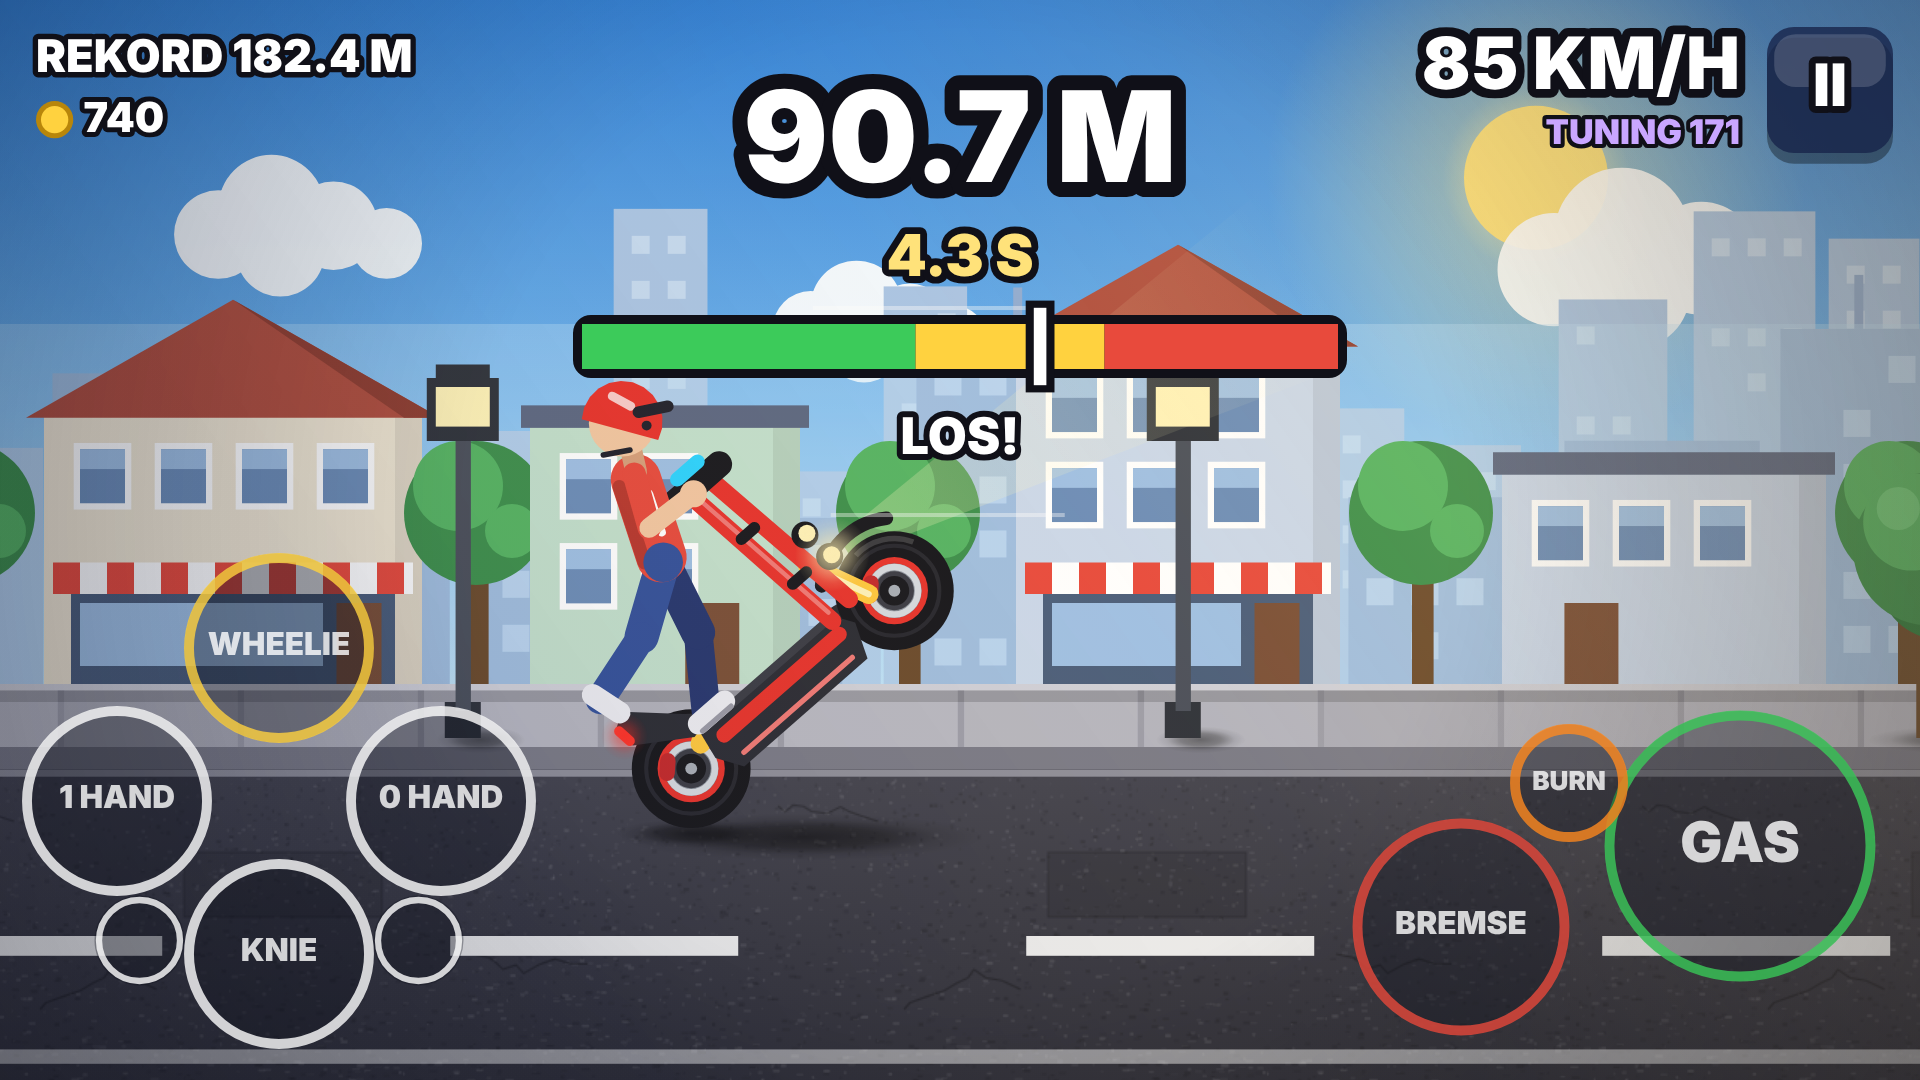
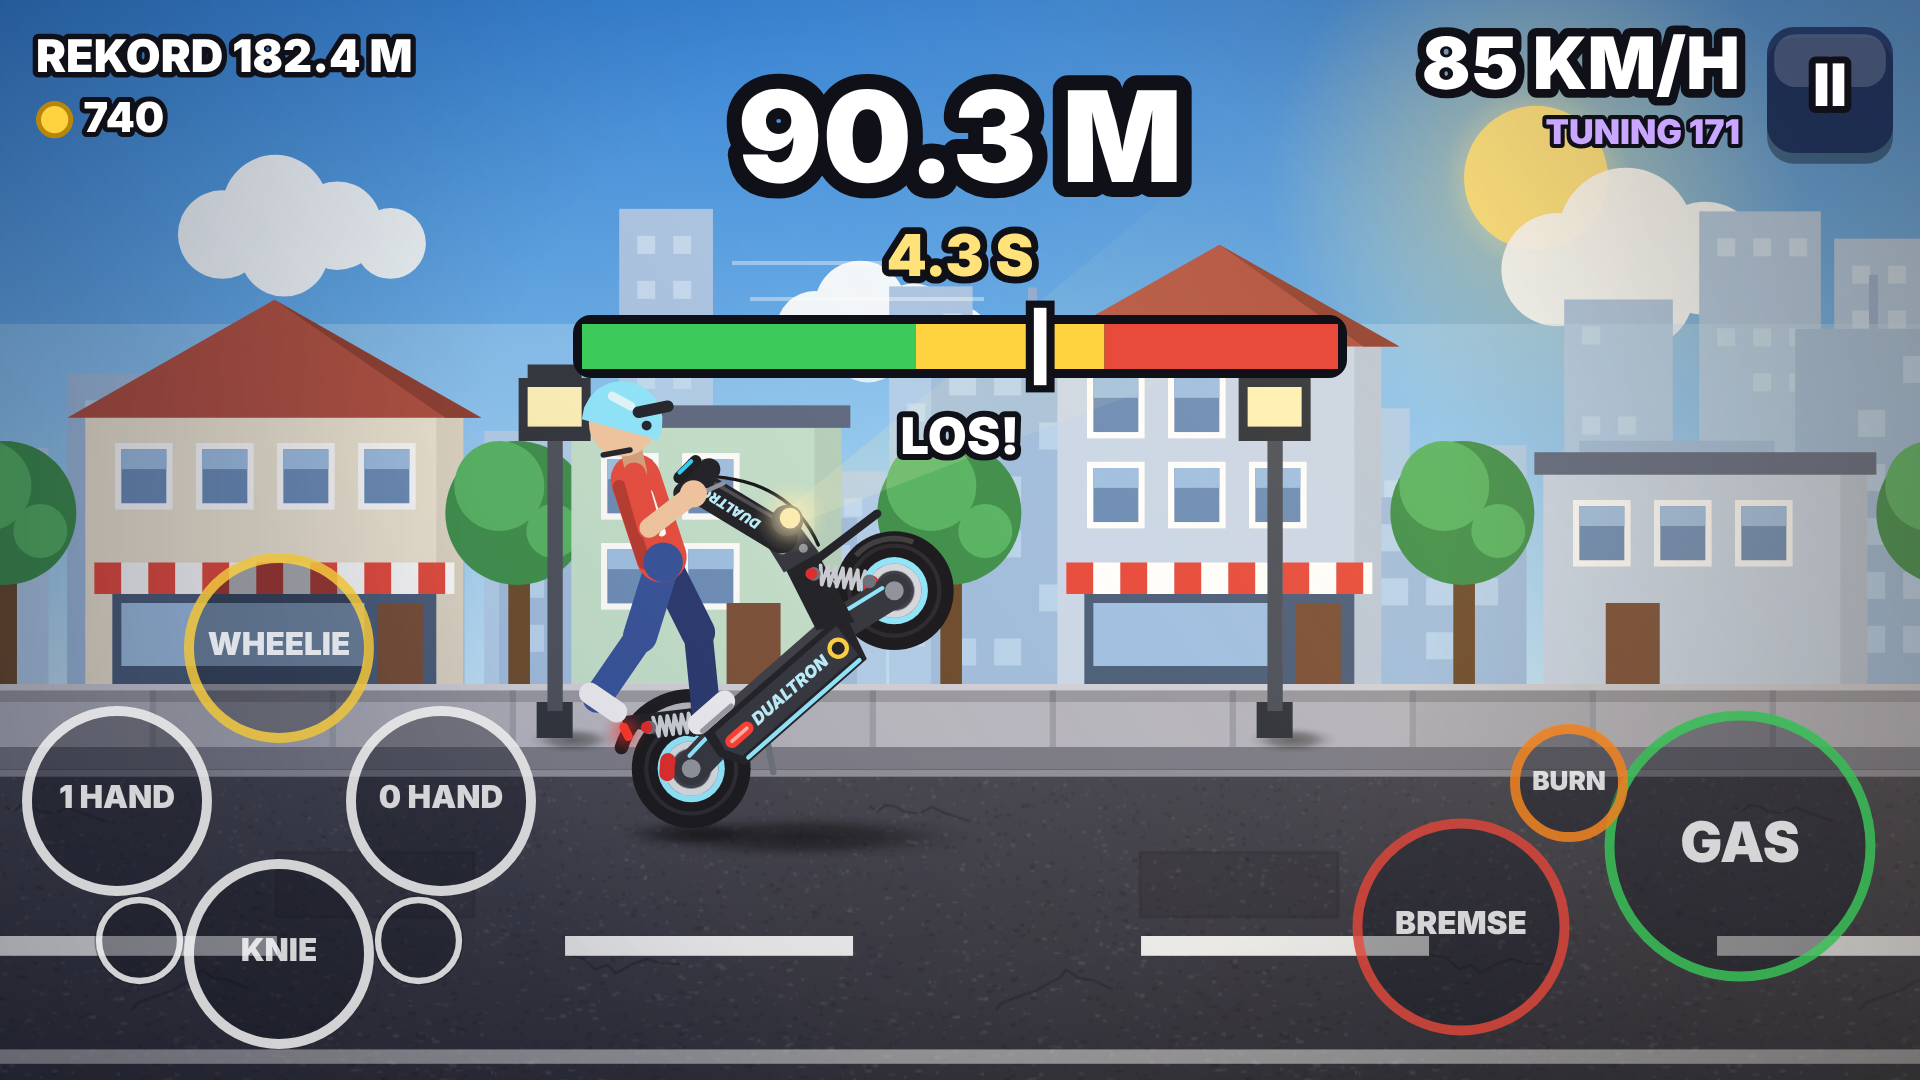
Handy-Version: Scooter nach den echten Modellen gezeichnet
Alle drei Scooter neu nach Fotos der Vorbilder:
- Ninebot Max G3: schlank, schwarzes Fahrwerk, rote Federn und Bremssättel
- Kukirin G4: kantiger Rahmen, schwarze Lenkstange mit Schriftzug,
  Federbein vorn, Fußstütze hinten, orange Details
- Dualtron X Limited: Akku-Kasten mit Schriftzug, eine dicke Lenksäule,
  runder Scheinwerfer, liegende Federbeine, gerades Schutzblech vorn
Dazu Federbeine, Bremskabel, Ständer, Schriftzüge; neue Farbe Grau und
Standard-Farben wie in echt.

Claude-Session: https://claude.ai/code/session_01Sb8gd8WMWDHa6kn2fSYihm

diff --git a/handy/www/game.js b/handy/www/game.js
@@ -33,15 +33,15 @@
   // name = so heißt der Scooter im Spiel, kmh = Höchstgeschwindigkeit ohne Tuning,
   // accel = Beschleunigung beim Anfahren (m/s², das Original hat 6.0),
   // dual = hat schon ab Werk zwei Motoren, price = Preis in Münzen,
-  // tail / lamp = dort sitzen Rücklicht und Scheinwerfer,
+  // label = Schriftzug auf dem Scooter, tail / lamp = dort sitzen Rücklicht und Scheinwerfer,
   // gain = km/h pro Motor-Stufe, cost = Tuning-Teile sind so viel mal teurer
   const SCOOTERS = [
-    { name: 'NINEBOT MAX G3', kmh: 80, accel: 6.0, dual: false, price: 0, gain: 5, cost: 1, r: 5.0, wb: 26, dy: 0, color: 0,
-      tail: [-5.4, 3.6], lamp: [23.9, 18.2] },
-    { name: 'KUKIRIN G4', kmh: 105, accel: 7.5, dual: false, price: 300, gain: 8, cost: 1.5, r: 5.6, wb: 27, dy: 0.6, color: 9,
-      tail: [-4.1, 6.2], lamp: [26.4, 9.6] },
-    { name: 'DUALTRON X LIMITED', kmh: 125, accel: 10.5, dual: true, price: 1200, gain: 12, cost: 2.5, r: 6.6, wb: 30, dy: 1.5, color: 3,
-      tail: [-3.2, 7.6], lamp: [27.5, 7.6] },
+    { name: 'NINEBOT MAX G3', kmh: 80, accel: 6.0, dual: false, price: 0, gain: 5, cost: 1, r: 5.0, wb: 26, dy: 0, color: 4,
+      label: 'MAX G3', tail: [-5.9, 2.9], lamp: [22.9, 21.2] },
+    { name: 'KUKIRIN G4', kmh: 105, accel: 7.5, dual: false, price: 300, gain: 8, cost: 1.5, r: 5.6, wb: 27, dy: 0.6, color: 12,
+      label: 'KUKIRIN G4', tail: [-3.8, 7.2], lamp: [24.9, 23.8] },
+    { name: 'DUALTRON X LIMITED', kmh: 125, accel: 10.5, dual: true, price: 1200, gain: 12, cost: 2.5, r: 6.6, wb: 30, dy: 1.5, color: 11,
+      label: 'DUALTRON', tail: [-2.9, 7.9], lamp: [26.9, 13.7] },
   ];
   const PARTS = [
     { name: 'MOTOR', info: g => '+' + g + ' KM/H' },
@@ -61,7 +61,8 @@
 
   const COLORS = [['MINT', 0x19C2A0], ['BLAU', 0x2F7DE1], ['PINK', 0xFF5FA2], ['FEUER-ROT', 0xE8322B],
     ['SCHWARZ', 0x3A3A46], ['GOLD', 0xFFC83D], ['REGENBOGEN', -1], ['NEON-GRÜN', 0x9DFF3A],
-    ['LILA', 0x9B5DE5], ['ORANGE', 0xFF8A1F], ['WEISS', 0xF2F2F6], ['EIS-BLAU', 0x8FE8FF]];
+    ['LILA', 0x9B5DE5], ['ORANGE', 0xFF8A1F], ['WEISS', 0xF2F2F6], ['EIS-BLAU', 0x8FE8FF],
+    ['GRAU', 0x7C838F]];
 
   // ------------------------------------------------------------------
   // Feste Werte
@@ -493,7 +494,7 @@
     return { S, hip, cp, sp, th, psi: th * 180 / PI * lean + A[2] + (B[2] - A[2]) * f };
   }
 
-  function wheel(p, r, rot, kind, col, motor, th, spin) {
+  function wheel(p, r, rot, kind, col, motor, th, spin, cal) {
     // kind: 0 normal, 1 Stollen (Gelände), 2 extra breit; spin = wie schnell es dreht (rad/s)
     circ(p, r, '#15151a');
     ctx.lineCap = 'butt';
@@ -536,7 +537,7 @@
     else circ(p, r * 0.2, '#17171c');
     const a = rad(135) + (th || 0);                            // Bremssattel (dreht sich nicht mit)
     const q = [p[0] + cos(a) * rd, p[1] - sin(a) * rd];
-    seg([q[0] - sin(a) * 0.7, q[1] - cos(a) * 0.7], [q[0] + sin(a) * 0.7, q[1] + cos(a) * 0.7], r * 0.26, '#c4282a');
+    seg([q[0] - sin(a) * 0.7, q[1] - cos(a) * 0.7], [q[0] + sin(a) * 0.7, q[1] + cos(a) * 0.7], r * 0.26, cal || '#c4282a');
     ctx.strokeStyle = 'rgba(255,255,255,0.16)'; ctx.lineWidth = 0.6; ctx.lineCap = 'butt';     // Glanz auf dem Reifen
     ctx.beginPath(); ctx.arc(p[0], p[1], r - 0.8, -2.4, -1.2); ctx.stroke();
   }
@@ -548,77 +549,173 @@
     ctx.beginPath(); ctx.arc(p[0], p[1], r + 1.5, -(rad(a1) + th), -(rad(a0) + th)); ctx.stroke();
   }
 
-  function drawScooter(model, S, th, col, rotF, rotR, dual, spinF, spinR) {
-    const c = hex(col), cd = shade(col, -0.3), cl = shade(col, 0.35);
-    const D = '#17171c', D2 = '#2a2b33', M = '#a8aeb6', r = model.r, wb = model.wb;
-    if (model === SCOOTERS[0]) {
-      // --- Ninebot Max G3: schlank, Pendler-Scooter ---
-      wheel(S(0, 0), r, rotR, 0, c, true, th, spinR);
-      wheel(S(wb, 0), r, rotF, 0, c, dual, th, spinF);
-      fender(S, th, 0, r, 35, 150, D2);
-      circ(S(-5.4, 3.6), 0.9, '#ff3b30');                       // Rücklicht
-      fender(S, th, wb, r, 40, 140, D2);
-      seg(S(26, 0), S(24.3, 5.5), 2.2, D);                      // Gabel
-      poly([S(1, 0.9), S(21, 0.9), S(21.8, -0.6), S(20.6, -2.4), S(1.6, -2.4), S(0.6, -0.8)], c);   // Trittbrett
-      poly([S(1.4, -1.2), S(21, -1.2), S(20.6, -2.4), S(1.6, -2.4)], cd);
-      seg(S(3, 0.9), S(19, 0.9), 0.9, D2);                      // Gummi-Matte
-      seg(S(19.5, -0.8), S(24.3, 5.0), 3.0, c);                 // Hals
-      seg(S(24.3, 5.0), S(21.3, 22.5), 2.4, D2);                // Lenkstange
-      seg(S(24.7, 6.0), S(21.9, 22.0), 0.5, 'rgba(255,255,255,0.22)');
-      seg(S(24.0, 6.6), S(23.1, 12), 2.5, c);
-      seg(S(18.6, 22.8), S(23.8, 22.8), 2.4, D);                // Lenker
-      seg(S(20.6, 24.2), S(22.6, 24.2), 1.2, '#2bd4ff');        // Display
-      seg(S(23.5, 17.0), S(23.9, 19.3), 2.2, '#fff3b8');        // Licht
-    } else if (model === SCOOTERS[1]) {
-      // --- Kukirin G4: kräftig, Gelände-Reifen, Federung ---
-      seg(S(0, 0), S(5, 0.2), 2.6, D2);                         // Schwinge hinten
-      seg(S(wb, 0), S(22.4, 2.6), 2.6, D2);                     // Schwinge vorn
-      wheel(S(0, 0), r, rotR, 1, c, true, th, spinR);
-      wheel(S(wb, 0), r, rotF, 1, c, dual, th, spinF);
-      fender(S, th, 0, r, 50, 135, D);
-      fender(S, th, wb, r, 45, 140, D);
-      seg(S(25.4, 1.6), S(23.4, 7.6), 1.9, '#e8322b');          // Feder vorn
-      seg(S(25.4, 1.6), S(23.4, 7.6), 0.6, '#ffb0a8');
-      poly([S(-5.2, 6.2), S(-3.6, 7.4), S(3.4, 1.6), S(0.6, 1.4)], D2);       // Fußstütze hinten
-      seg(S(-4.6, 6.6), S(-3.6, 5.8), 1.0, '#ff3b30');
-      poly([S(1, 1.5), S(21.4, 1.5), S(22.6, -0.6), S(21, -3.3), S(2.4, -3.3), S(0.6, -0.8)], c);   // Trittbrett
-      poly([S(1.8, -1.9), S(21.8, -1.9), S(21, -3.3), S(2.4, -3.3)], cd);
-      seg(S(4.6, -0.3), S(18.6, -0.3), 1.3, D);                 // Seitenstreifen
-      seg(S(3, 1.5), S(19.6, 1.5), 0.9, D2);
-      seg(S(20.4, 0.2), S(24.6, 6.5), 3.8, D2);                 // Klapp-Gelenk
-      seg(S(24.6, 6.5), S(21.4, 22.6), 3.0, c);                 // Lenkstange
-      seg(S(24.9, 6.5), S(21.7, 22.6), 0.7, cl);
-      circ(S(26.0, 9.6), 1.6, D);                               // Scheinwerfer
-      circ(S(26.3, 9.6), 1.0, '#fff3b8');
-      seg(S(18.2, 23.0), S(24.0, 23.0), 2.6, D);                // Lenker
-      seg(S(20.2, 24.6), S(22.8, 24.6), 1.5, '#2bd4ff');
-    } else {
-      // --- Dualtron X Limited: riesig, doppelte Lenkstange, fette Reifen ---
-      seg(S(0, 0), S(6, 1.2), 3.6, D2);                         // Schwingen
-      seg(S(wb, 0), S(23.4, 1.4), 3.6, D2);
-      wheel(S(0, 0), r, rotR, 2, c, true, th, spinR);
-      wheel(S(wb, 0), r, rotF, 2, c, dual, th, spinF);
-      fender(S, th, wb, r, 55, 135, D);
-      seg(S(27.6, 1.6), S(24.6, 8.4), 2.2, '#ffc83d');          // Federbein vorn
-      seg(S(27.6, 1.6), S(24.6, 8.4), 0.7, '#fff3b8');
-      seg(S(2.6, 1.4), S(5.4, 3.2), 2.2, '#ffc83d');            // Federbein hinten
-      poly([S(-3.4, 8.8), S(-1.6, 9.8), S(5.6, 3.0), S(2.6, 2.4), S(-3.2, 6.2)], D2);   // Fußstütze hinten
-      seg(S(-3.3, 8.4), S(-3.1, 6.8), 1.1, '#ff3b30');
-      poly([S(3.4, 2.4), S(23, 2.4), S(24.4, 0.2), S(22.8, -3.7), S(4.6, -3.7), S(2.8, -0.9)], D2);   // Akku-Kasten
-      seg(S(5.2, 0.4), S(22.2, 0.4), 1.7, c);                   // Farb-Streifen
-      seg(S(5.6, -2.5), S(21.6, -2.5), 0.6, cl);                // LED-Leiste
-      seg(S(4.4, 2.4), S(21.6, 2.4), 0.9, '#3a3b44');
-      seg(S(22.6, 2.0), S(19.9, 23.0), 2.0, c);                 // doppelte Lenkstange
-      seg(S(22.9, 3.0), S(20.3, 22.4), 0.5, cl);
-      seg(S(25.6, 2.6), S(22.7, 23.0), 2.0, c);
-      seg(S(24.0, 8.0), S(22.0, 8.0), 1.3, D);
-      seg(S(22.9, 15.5), S(21.0, 15.5), 1.3, D);
-      circ(S(27.1, 7.6), 1.5, D); circ(S(27.4, 7.6), 0.95, '#fff3b8');      // zwei Scheinwerfer
-      circ(S(26.6, 11.2), 1.5, D); circ(S(26.9, 11.2), 0.95, '#fff3b8');
-      seg(S(17.8, 23.4), S(24.6, 23.4), 2.9, D);                // Lenker
-      seg(S(20.0, 25.2), S(23.0, 25.2), 1.6, '#2bd4ff');
+  function shock(a, b, w, col) {
+    // Federbein: Dämpfer in der Mitte, Feder im Zickzack außen herum
+    const dx = b[0] - a[0], dy = b[1] - a[1], L = Math.hypot(dx, dy) || 1;
+    const nx = -dy / L * w / 2, ny = dx / L * w / 2, n = max(6, Math.round(L / 0.5));
+    seg(a, b, w * 0.42, '#23242c');
+    ctx.strokeStyle = col; ctx.lineWidth = 0.42; ctx.lineCap = 'round'; ctx.lineJoin = 'round';
+    ctx.beginPath();
+    for (let i = 0; i <= n; i++) {
+      const t = 0.1 + 0.8 * i / n, sg = i & 1 ? 1 : -1;
+      const x = a[0] + dx * t + nx * sg, y = a[1] + dy * t + ny * sg;
+      if (i) ctx.lineTo(x, y); else ctx.moveTo(x, y);
     }
-    void M;
+    ctx.stroke();
+    circ(a, w * 0.36, '#6a6f7a'); circ(b, w * 0.36, '#6a6f7a');
+  }
+
+  function lettering(S, th, x, y, str, size, col, along) {
+    // Schrift auf dem Scooter; along = Richtung in Grad (0 = nach vorn, 90 = nach oben)
+    const q = S(x, y);
+    ctx.save();
+    ctx.translate(q[0], q[1]);
+    ctx.rotate(-(th + rad(along || 0)));
+    ctx.font = 'italic 900 ' + size + 'px' + FONT;
+    ctx.textAlign = 'left'; ctx.textBaseline = 'middle';
+    ctx.fillStyle = col;
+    ctx.fillText(str, 0, 0);
+    ctx.restore();
+  }
+
+  function checker(S, x, y, col) {
+    // kleines Karo-Muster (Aufkleber)
+    const q = 0.62;
+    for (const [i, k] of [[0, 0], [1, 1], [2, 0], [3, 1]])
+      poly([S(x + i * q, y + k * q), S(x + i * q + q, y + k * q), S(x + i * q + q, y + k * q - q), S(x + i * q, y + k * q - q)], col);
+  }
+
+  function cable(S, a, c, b) {
+    // Bremskabel: dünner Bogen vom Lenker nach unten
+    const p0 = S(a[0], a[1]), p1 = S(c[0], c[1]), p2 = S(b[0], b[1]);
+    ctx.strokeStyle = '#101014'; ctx.lineWidth = 0.38; ctx.lineCap = 'round';
+    ctx.beginPath(); ctx.moveTo(p0[0], p0[1]); ctx.quadraticCurveTo(p1[0], p1[1], p2[0], p2[1]); ctx.stroke();
+  }
+
+  function drawScooter(model, S, th, col, rotF, rotR, dual, spinF, spinR) {
+    // Die drei Scooter sind nach Fotos der echten Modelle gezeichnet (Seitenansicht).
+    // Koordinaten: Hinterachse = 0,0; x nach vorn, y nach oben. Griff bei 20.3 / 22.8.
+    const c = hex(col), cd = shade(col, -0.3), cl = shade(col, 0.4);
+    const D = '#17171c', D2 = '#2a2b33', ST = '#8d939d', RED = '#e0282a', CY = '#2bd4ff';
+    const r = model.r, wb = model.wb;
+    const hi = 'rgba(255,255,255,0.2)';
+    if (model === SCOOTERS[0]) {
+      // --- Ninebot Max G3: schlank, schwarzes Fahrwerk, rote Federn und Bremssättel ---
+      wheel(S(0, 0), r, rotR, 0, c, true, th, spinR, RED);
+      wheel(S(wb, 0), r, rotF, 0, c, dual, th, spinF, RED);
+      fender(S, th, 0, r, 22, 158, D);                          // langes Schutzblech hinten
+      seg(S(-5.7, 3.4), S(-6.1, 2.2), 1.1, D2);
+      circ(S(-5.9, 2.9), 0.75, '#ff3b30');                      // Rücklicht
+      fender(S, th, wb, r, 42, 152, D);
+      seg(S(0, 0), S(5.6, -0.9), 2.0, D2);                      // Schwinge hinten
+      circ(S(0, 0), 0.8, ST);
+      shock(S(1.3, 2.5), S(5.0, 0.5), 1.6, RED);                // Federbein hinten
+      seg(S(wb, 0), S(24.8, 4.4), 2.1, D);                      // Gabel
+      circ(S(wb, 0), 0.8, ST);
+      shock(S(25.0, 3.4), S(23.8, 7.2), 1.6, RED);              // Hydraulik-Federung vorn
+      seg(S(10.6, -2.2), S(9.2, -4.7), 0.55, '#6a6f7a');        // Ständer
+      poly([S(4.4, 0.9), S(18.4, 0.9), S(20.4, -0.5), S(19.6, -2.3), S(5.0, -2.3), S(3.8, -0.9)], c);    // Trittbrett
+      poly([S(4.3, -1.35), S(20.1, -1.35), S(19.6, -2.3), S(5.0, -2.3)], cd);
+      seg(S(5.2, 0.95), S(18.0, 0.95), 0.8, D2);                // Gummi-Matte
+      seg(S(4.9, -0.2), S(6.1, -0.2), 0.7, '#ff8a1f');          // Reflektoren
+      seg(S(17.6, -0.2), S(18.8, -0.2), 0.7, '#ff8a1f');
+      lettering(S, th, 8.2, -0.2, model.label, 1.45, cl, 0);
+      seg(S(18.6, -0.7), S(23.0, 6.2), 3.0, c);                 // Hals
+      seg(S(19.6, 0.0), S(23.3, 5.7), 0.45, hi);
+      cable(S, [22.4, 22.6], [27.6, 15], [24.7, 6.4]);
+      seg(S(23.2, 8.0), S(20.9, 22.2), 2.1, c);                 // Lenkstange
+      seg(S(23.7, 8.8), S(21.5, 21.8), 0.42, hi);
+      circ(S(23.3, 7.0), 1.75, D2);                             // Klapp-Gelenk
+      circ(S(23.3, 7.0), 0.6, RED);
+      seg(S(22.4, 20.3), S(22.7, 21.9), 1.6, '#fff3b8');        // Licht
+      seg(S(19.8, 23.7), S(22.8, 24.0), 1.6, D);                // Display im Lenker
+      seg(S(20.3, 24.5), S(22.3, 24.7), 0.5, CY);
+      seg(S(20.9, 22.3), S(23.3, 21.3), 0.45, ST);              // Bremshebel
+      circ(S(20.3, 22.8), 1.3, D);
+    } else if (model === SCOOTERS[1]) {
+      // --- Kukirin G4: kantiger Rahmen, breite Reifen, schwarze Lenkstange, orange Details ---
+      const O = '#ff7a1a', K = '#1c1d24';
+      wheel(S(0, 0), r, rotR, 1, c, true, th, spinR, O);
+      wheel(S(wb, 0), r, rotF, 1, c, dual, th, spinF, O);
+      fender(S, th, 0, r, 38, 142, D);
+      fender(S, th, wb, r, 52, 128, D);
+      seg(S(0, 0), S(5.8, 0.2), 2.9, c);                        // Schwinge hinten
+      seg(S(0.6, 0.6), S(5.4, 0.8), 0.4, cl);
+      circ(S(0, 0), 0.95, ST);
+      shock(S(0.9, 3.0), S(5.0, 1.2), 1.7, '#9aa0aa');
+      seg(S(2.6, 1.6), S(0.6, 5.2), 1.2, D2);                   // Fußstütze hinten
+      poly([S(-3.7, 7.2), S(-3.1, 8.1), S(4.5, 4.2), S(3.9, 3.3)], D);
+      seg(S(-3.5, 7.6), S(-3.95, 6.8), 0.9, '#ff3b30');
+      seg(S(24.9, 8.6), S(25.5, 3.0), 2.5, K);                  // Lenksäule nach unten
+      seg(S(24.2, 2.7), S(wb, 0), 2.9, c);                      // Schwinge vorn
+      seg(S(24.4, 3.3), S(26.6, 0.7), 0.4, cl);
+      circ(S(wb, 0), 0.95, ST);
+      shock(S(26.1, 7.6), S(26.9, 1.5), 1.9, '#9aa0aa');        // Federbein vorn
+      seg(S(11.6, -1.7), S(13.0, -5.3), 0.6, '#6a6f7a');        // Ständer
+      poly([S(3.6, 1.5), S(20.2, 1.5), S(21.6, 0.2), S(20.6, -1.7), S(4.4, -1.7), S(3.2, -0.2)], c);    // Trittbrett
+      poly([S(3.8, -0.9), S(21.0, -0.9), S(20.6, -1.7), S(4.4, -1.7)], cd);
+      seg(S(4.6, 1.55), S(19.4, 1.55), 0.8, D2);
+      checker(S, 4.6, 0.55, O);
+      checker(S, 17.0, 0.55, O);
+      poly([S(8.0, 0.7), S(10.2, 0.7), S(10.2, -0.2), S(8.0, -0.2)], '#ffd23f');     // Aufkleber
+      seg(S(19.4, -0.2), S(23.8, 7.6), 3.5, c);                 // schräger Träger zum Lenkkopf
+      seg(S(20.5, 0.6), S(24.2, 7.1), 0.45, cl);
+      checker(S, 20.9, 3.6, O);
+      seg(S(23.3, 8.2), S(25.3, 9.7), 2.7, D2);                 // Klapp-Gelenk
+      circ(S(24.3, 8.95), 0.6, O);
+      cable(S, [22.6, 23], [28.4, 16], [26.4, 6.6]);
+      seg(S(24.3, 9.9), S(21.3, 22.0), 3.0, K);                 // breite schwarze Lenkstange
+      seg(S(25.2, 10.4), S(22.3, 21.8), 0.4, hi);
+      lettering(S, th, 23.75, 11.6, model.label, 1.5, O, 103.8);
+      poly([S(19.5, 23.2), S(24.5, 23.0), S(25.1, 24.4), S(21.4, 25.7), S(19.7, 24.9)], D);     // Cockpit mit LED-Licht
+      seg(S(20.3, 24.6), S(22.4, 25.0), 0.6, CY);
+      seg(S(24.5, 23.4), S(24.8, 24.1), 0.9, '#fff3b8');
+      seg(S(20.9, 22.3), S(23.4, 21.4), 0.45, ST);
+      circ(S(20.3, 22.8), 1.3, D);
+    } else {
+      // --- Dualtron X Limited: riesiger Akku-Kasten, eine dicke Lenksäule, fette 13-Zoll-Reifen ---
+      const K = '#1c1d24', K2 = '#30323c', SV = '#c9ced6';
+      wheel(S(0, 0), r, rotR, 2, c, true, th, spinR, RED);
+      wheel(S(wb, 0), r, rotF, 2, c, dual, th, spinF, RED);
+      fender(S, th, 0, r, 32, 122, D);
+      seg(S(0, 0), S(6.6, 0.6), 3.7, K2);                       // Schwingen
+      seg(S(0.8, 1.2), S(6.2, 1.7), 0.45, c);
+      circ(S(0, 0), 1.05, ST);
+      seg(S(wb, 0), S(23.8, 1.0), 3.7, K2);
+      seg(S(24.4, 1.9), S(29.2, 1.1), 0.45, c);
+      circ(S(wb, 0), 1.05, ST);
+      seg(S(8.2, -3.6), S(6.6, -6.3), 0.7, '#6a6f7a');          // Ständer
+      poly([S(-2.7, 8.5), S(-1.9, 9.4), S(5.2, 4.5), S(4.8, 2.4), S(2.6, 2.4)], K);     // Fußstütze hinten
+      seg(S(-2.6, 8.4), S(-2.9, 7.3), 1.0, '#ff3b30');
+      shock(S(-0.5, 6.5), S(4.0, 3.4), 2.1, SV);                // Federbein hinten
+      circ(S(-0.7, 6.7), 0.65, RED);
+      poly([S(3.6, 2.4), S(22.6, 2.4), S(23.9, 0.6), S(22.7, -3.7), S(4.8, -3.7), S(3.2, -1.0)], K);    // Akku-Kasten
+      poly([S(4.6, 1.3), S(22.6, 1.3), S(22.3, -2.7), S(5.2, -2.7), S(4.2, -0.9)], K2);
+      seg(S(4.4, 2.4), S(21.8, 2.4), 0.9, '#3a3b44');           // Griptape
+      seg(S(5.4, -0.7), S(7.6, -0.7), 1.5, '#ff3b30');          // Rücklicht in der Seite
+      seg(S(5.4, -0.7), S(7.6, -0.7), 0.4, '#ffb0a8');
+      lettering(S, th, 8.7, -0.75, model.label, 1.9, cl, 0);
+      circ(S(21.1, -0.7), 1.2, '#ffd23f');                      // gelber Ring
+      circ(S(21.1, -0.7), 0.72, K);
+      seg(S(5.6, -3.25), S(22.0, -3.25), 0.5, c);               // LED-Leiste unten
+      poly([S(20.6, 2.4), S(24.4, 0.3), S(26.4, 9.0), S(22.6, 10.2)], K);      // Hals-Block
+      seg(S(25.6, 8.3), S(34.2, 7.7), 0.95, K);                 // Schutzblech vorn (gerade Platte)
+      shock(S(24.5, 7.3), S(28.6, 2.6), 2.1, SV);               // Federbein vorn
+      circ(S(24.3, 7.5), 0.65, RED);
+      poly([S(22.1, 9.6), S(26.5, 8.7), S(26.8, 12.3), S(22.7, 13.2)], K2);    // Klapp-Block
+      circ(S(23.6, 11.6), 0.5, ST); circ(S(25.5, 10.2), 0.5, ST);
+      cable(S, [22.6, 23.4], [29.4, 17], [27.0, 9.4]);
+      seg(S(24.5, 12.8), S(21.5, 22.2), 3.7, K);                // dicke Lenksäule
+      seg(S(25.8, 13.4), S(22.9, 22.0), 0.42, hi);
+      lettering(S, th, 23.55, 15.4, model.label, 1.55, cl, 107.4);
+      circ(S(26.2, 13.7), 1.75, K2);                            // runder Scheinwerfer
+      circ(S(26.6, 13.7), 1.15, '#fff3b8');
+      seg(S(19.6, 23.5), S(23.4, 23.7), 2.5, K);                // Lenker-Klemme und Display
+      seg(S(20.3, 25.2), S(22.9, 25.4), 1.3, D);
+      seg(S(20.7, 25.6), S(22.5, 25.7), 0.45, CY);
+      seg(S(20.9, 22.3), S(23.6, 21.5), 0.5, ST);
+      circ(S(20.3, 22.8), 1.4, D);
+    }
   }
 
   const SKIN = '#f4c7a1', SKIN_D = '#d79f7a', SHIRT = '#e84a3c', SHIRT_D = '#b8372d';
@@ -697,7 +794,7 @@
       ctx.translate(lamp[0], lamp[1]);
       ctx.rotate(0.16 - o.th);
       const gr = ctx.createLinearGradient(0, 0, 62, 0);
-      gr.addColorStop(0, 'rgba(255,244,190,0.30)'); gr.addColorStop(1, 'rgba(255,244,190,0)');
+      gr.addColorStop(0, 'rgba(255,244,190,0.20)'); gr.addColorStop(1, 'rgba(255,244,190,0)');
       ctx.fillStyle = gr;
       ctx.beginPath(); ctx.moveTo(0, -1); ctx.lineTo(62, -9); ctx.lineTo(62, 13); ctx.lineTo(0, 1); ctx.closePath(); ctx.fill();
       ctx.restore();

diff --git a/handy/README.md b/handy/README.md
@@ -31,7 +31,13 @@ Scooter seine eigene.
   | Dual-Motor (einmal) | +5 km/h und viel mehr Anzug (+2,5 m/s²). Beim Burnout rauchen dann beide Reifen. Der Dualtron hat ihn schon. |
 
   Voll getunt: Ninebot 118 km/h, Kukirin 152 km/h, Dualtron 179 km/h.
-* **12 Farben** pro Scooter (auch Regenbogen), der Helm bekommt die gleiche Farbe.
+* **Scooter nach den echten Vorbildern gezeichnet** (nach Fotos): der Ninebot
+  schlank mit roten Federn und Bremssätteln, der Kukirin kantig mit breiter
+  schwarzer Lenkstange, Federbein vorn und orangen Details, der Dualtron mit
+  Akku-Kasten, dicker Lenksäule, rundem Scheinwerfer und liegenden Federbeinen.
+* **13 Farben** pro Scooter (auch Regenbogen), der Helm bekommt die gleiche Farbe.
+  Am Anfang hat jeder Scooter seine echte Farbe (Ninebot schwarz, Kukirin grau,
+  Dualtron schwarz mit eisblauen Details).
 * **Bessere Grafik:** alles wird scharf in der Auflösung vom Handy gezeichnet,
   der Hintergrund bewegt sich in mehreren Ebenen (Wolken, Hochhäuser, Häuser,
   Gehweg, Straße), die Räder drehen sich.
@@ -85,9 +91,11 @@ Vor dem **ersten** Hochladen prüfen:
 
 * **App-Kennung** `ch.escooter.wheelie` (in `capacitor.config.json` und
   `android/app/build.gradle`). Sie lässt sich nach dem ersten Hochladen nie mehr ändern.
-* **Scooter-Namen:** „Ninebot", „Kukirin" und „Dualtron" sind geschützte Marken.
-  Google kann Apps ablehnen, die fremde Markennamen benutzen. Die Namen stehen
-  ganz oben in `www/game.js` bei `SCOOTERS` und sind in einer Minute geändert.
+* **Scooter-Namen:** „Ninebot", „Kukirin" und „Dualtron" sind geschützte Marken,
+  und die Scooter sehen den echten Modellen ähnlich. Google kann Apps ablehnen,
+  die fremde Markennamen benutzen. Die Namen (`name`) und die Schriftzüge auf
+  den Scootern (`label`) stehen ganz oben in `www/game.js` bei `SCOOTERS` und
+  sind in einer Minute geändert.
 * Für jedes Update `versionCode` in `android/app/build.gradle` um 1 erhöhen.
 
 ## Für Entwickler
